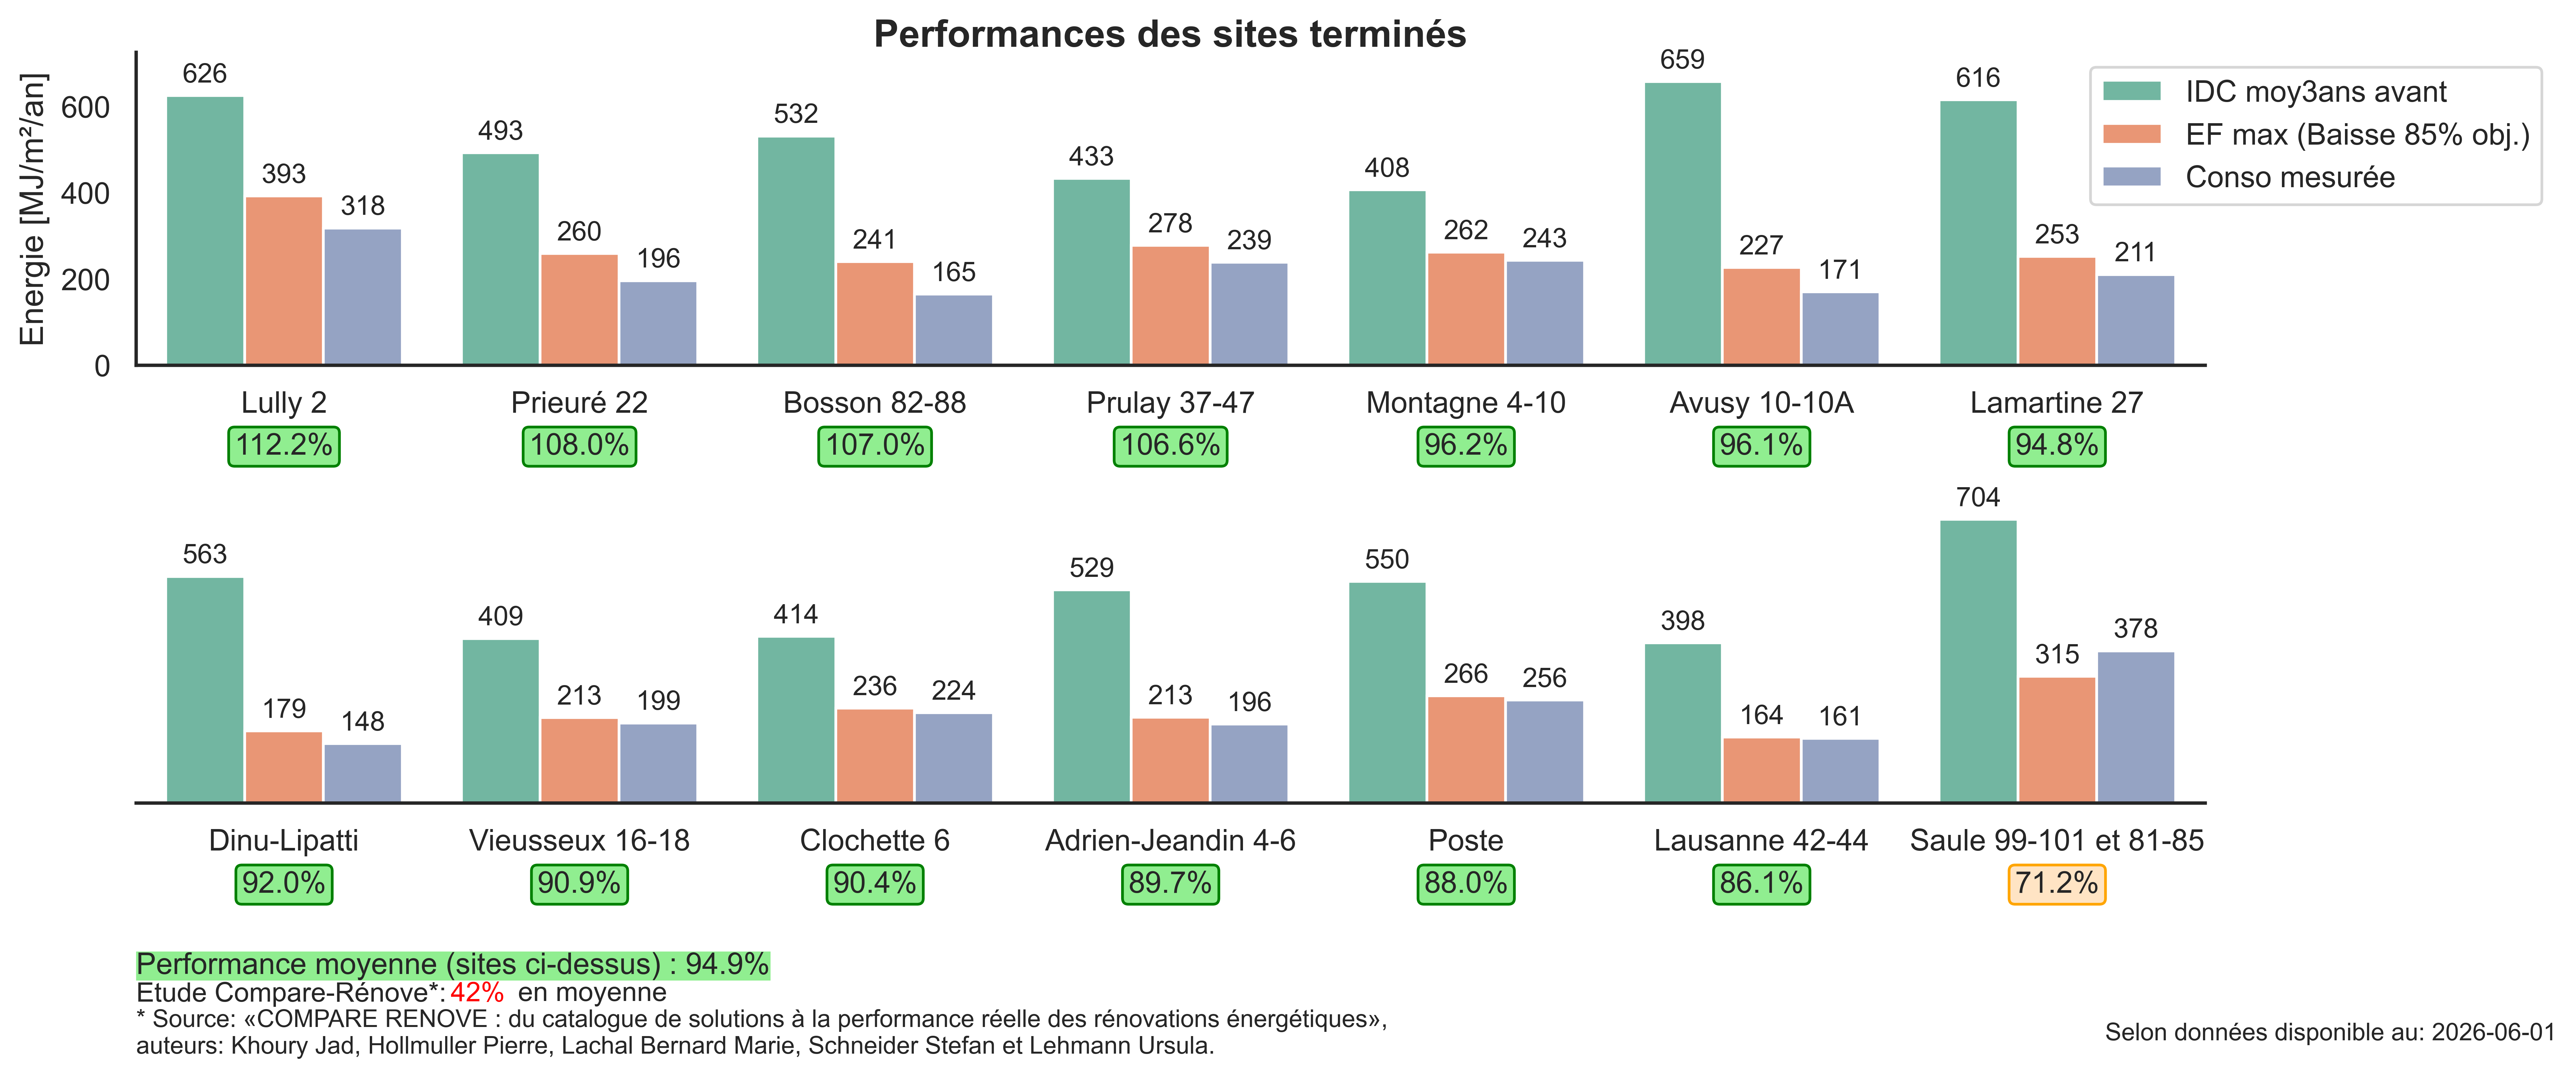
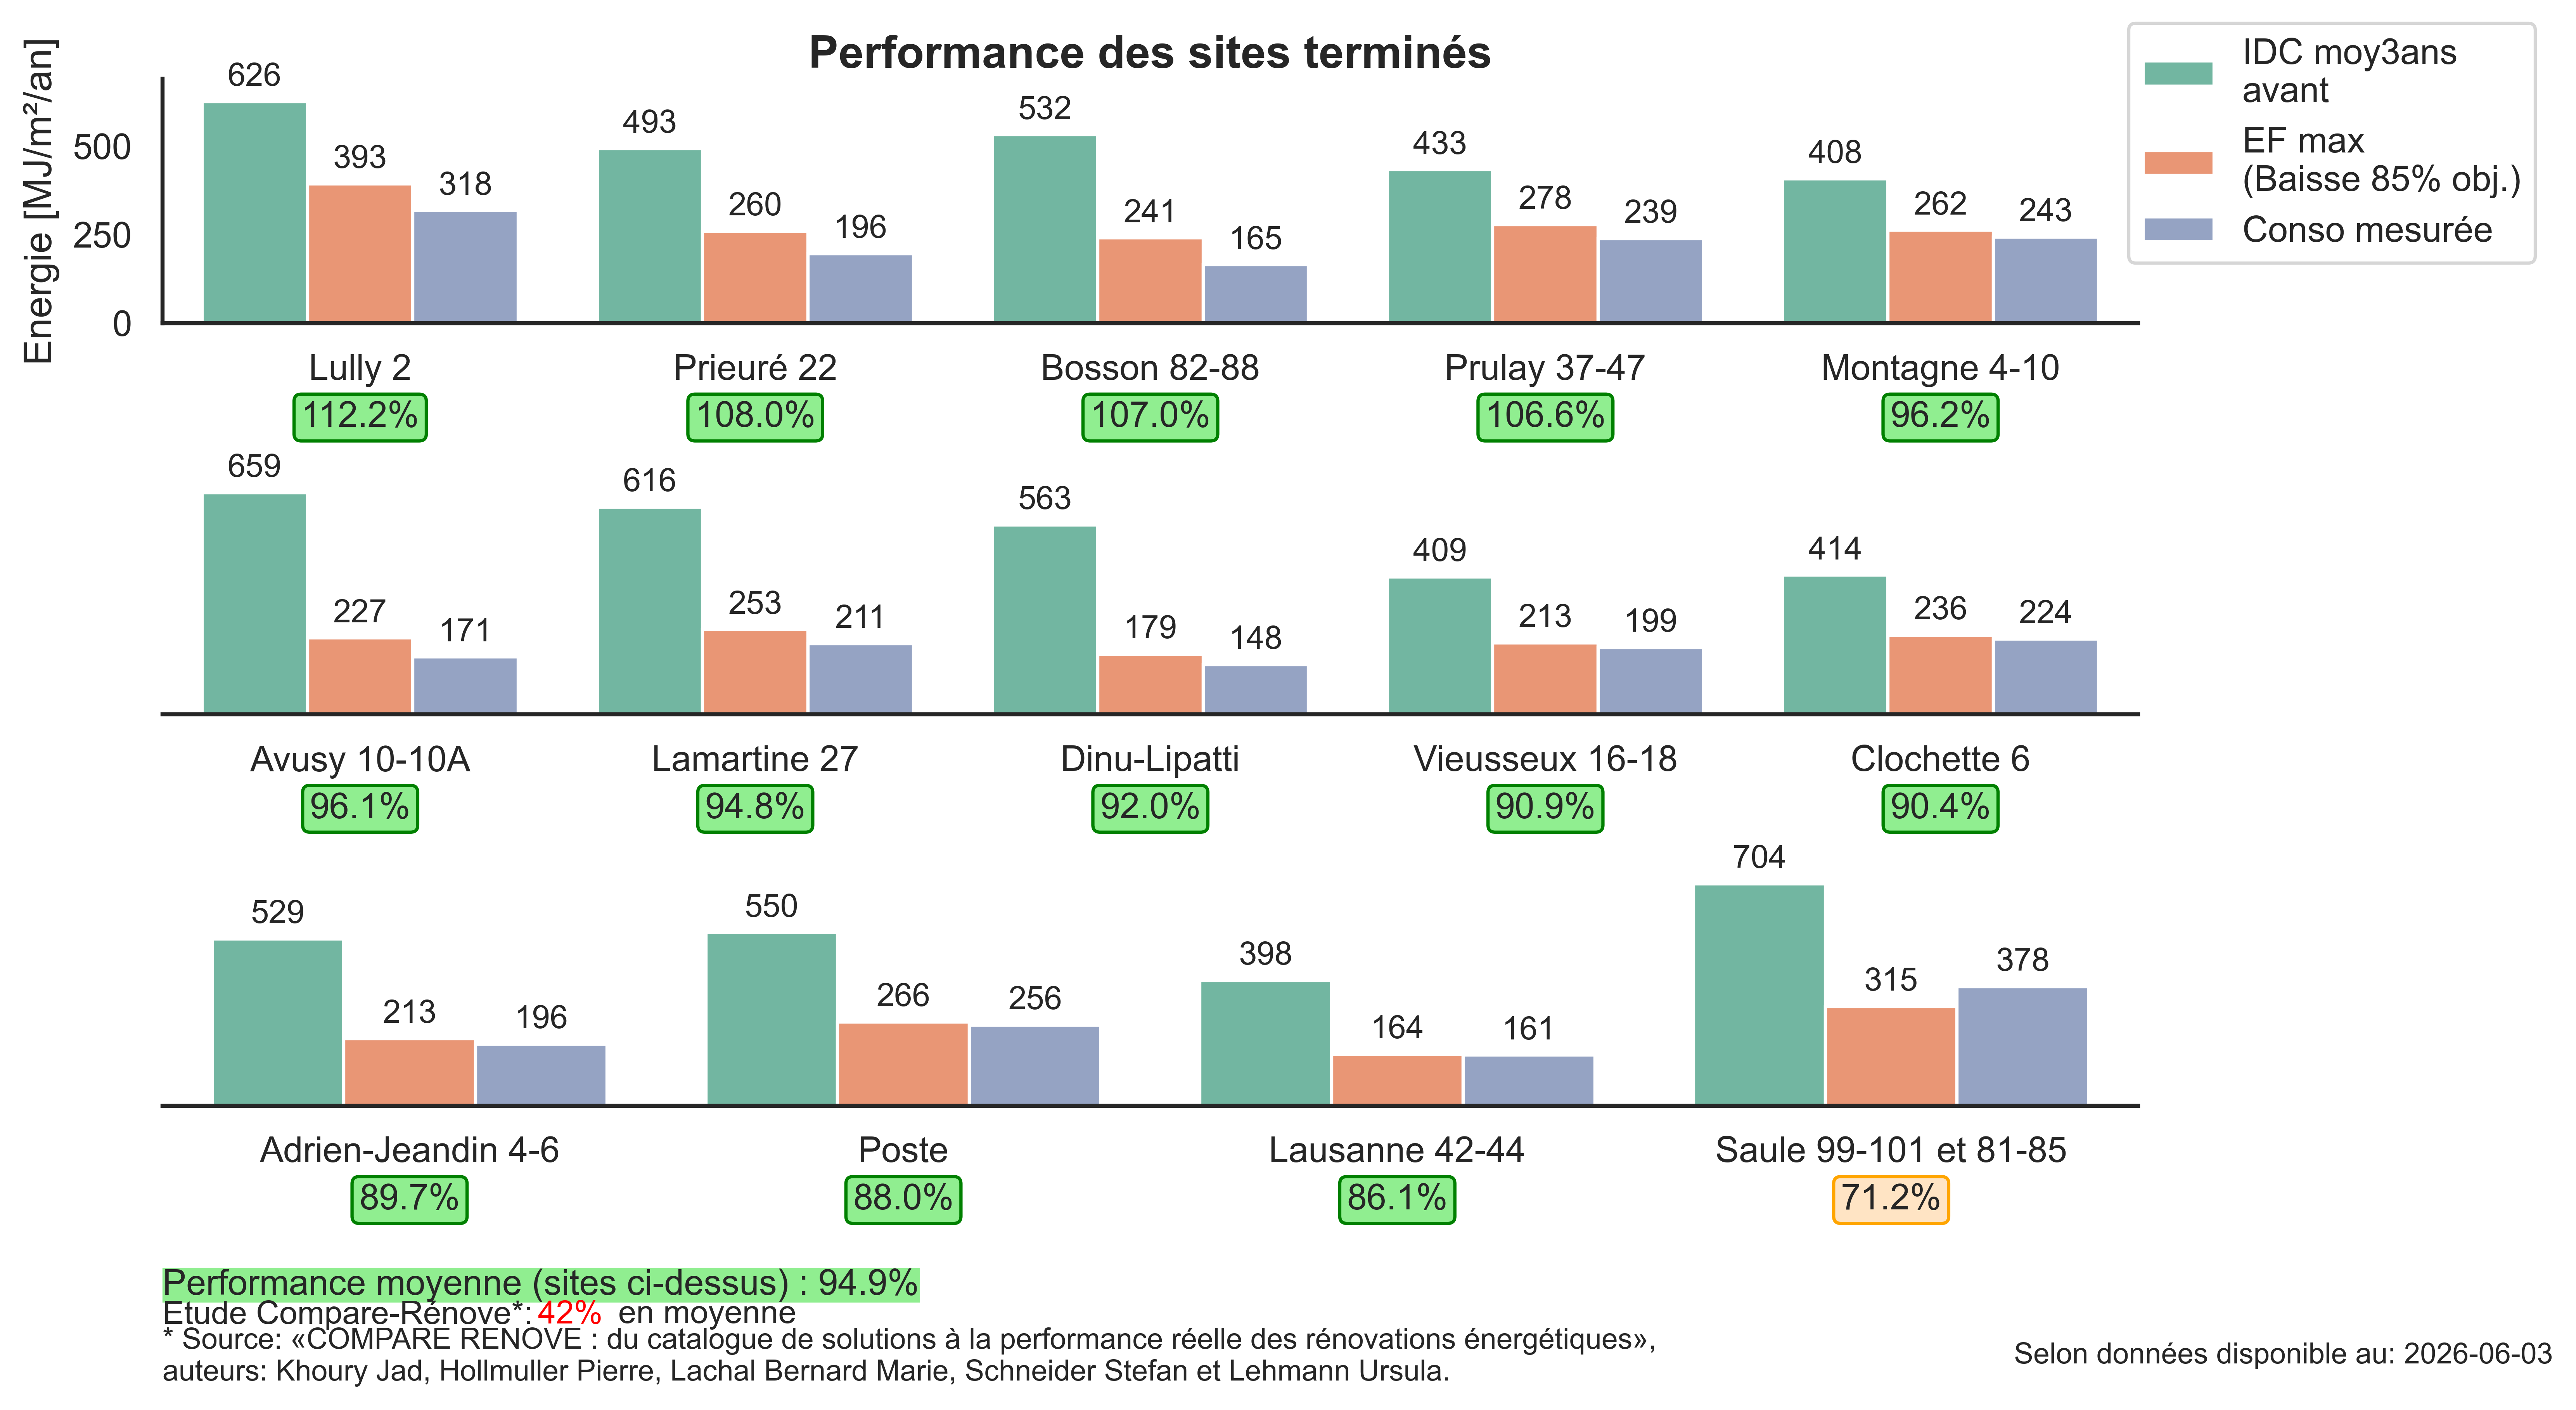
Adjust slide image sizes and spacing
Increase several slide image heights and tweak slide spacing to improve layout: adjust slideimage usages in the presentation (.tex) (e.g. 0.69→0.72, 0.63→0.82, 0.91→0.925/0.96, includegraphics heights 0.42→0.44). Change slideimage default vspace from 1pt to -5pt in beamerthemehsrm.sty. Remove one bullet line about PAC COP calculation. Updated corresponding PNG assets and regenerated the PDF.

diff --git a/2026_06_04_AMOen_rencontre.tex b/2026_06_04_AMOen_rencontre.tex
@@ -79,7 +79,7 @@
 \section{Performance}
 
 \begin{frame}[t]{Performance des sites en exploitation}
-    \slideimage[0.69\textheight]{img/02_performance_sites_general_01_exploitation}%
+    \slideimage[0.72\textheight]{img/02_performance_sites_general_01_exploitation}%
 	\vfill
 	{\tiny Données indisponibles pour "Vernes-Vaudagne 16-18/41-45\_CPEG" et "Gilbert-Trolliet 2-12\_CAPetRealstone"}
 \end{frame}
@@ -90,7 +90,7 @@
 
 % hauteur différente pour la dernière
 \begin{frame}[t]{Performance des sites terminés}
-    \slideimage[0.63\textheight]{img/02_performance_sites_general_03_termines}
+    \slideimage[0.82\textheight]{img/02_performance_sites_general_03_termines}
     \vfill
     {\tiny "Michel-Chauvet 6-8" (projet pilote), "école Golette" et "Léchères 4\_Wincasa" (hors affectation logement collectif) ne sont pas inclus.}
 \end{frame}
@@ -102,11 +102,11 @@
 \section{Comparatif IDC}
 
 \begin{frame}[t]{Performance vs IDC 1/2}
-    \slideimage[0.91\textheight]{img/02_performance_sites_general_04_termines_idc}
+    \slideimage[0.925\textheight]{img/02_performance_sites_general_04_termines_idc}
 \end{frame}
 
 \begin{frame}[t]{Performance vs IDC 2/2}
-    \slideimage[0.91\textheight]{img/02_performance_sites_general_05_termines_idc}
+    \slideimage[0.96\textheight]{img/02_performance_sites_general_05_termines_idc}
 \end{frame}
 
 \begin{frame}[t]{Cas particulier 1/2: Avusy 10-10A}
@@ -115,7 +115,7 @@
     % --- Image (top) ---
     {\centering\includegraphics[
         width=\linewidth,
-        height=0.42\textheight,
+        height=0.44\textheight,
         keepaspectratio
     ]{img/02_performance_sites_general_06_cas_particulier_01}\par}
 
@@ -144,7 +144,7 @@
     % --- Image (top) ---
     {\centering\includegraphics[
         width=\linewidth,
-        height=0.42\textheight,
+        height=0.44\textheight,
         keepaspectratio
     ]{img/02_performance_sites_general_06_cas_particulier_02}\par}
 
@@ -175,7 +175,6 @@
         \begin{itemize}
             \setlength{\itemsep}{0.2em}
             \item Tendance IDC à la baisse après rénovation
-            \item Calcul PAC COP: IDC (3.25) vs AMOén (2.5)
             \item 2 cas particuliers analysés
         \end{itemize}
     \end{itemize}